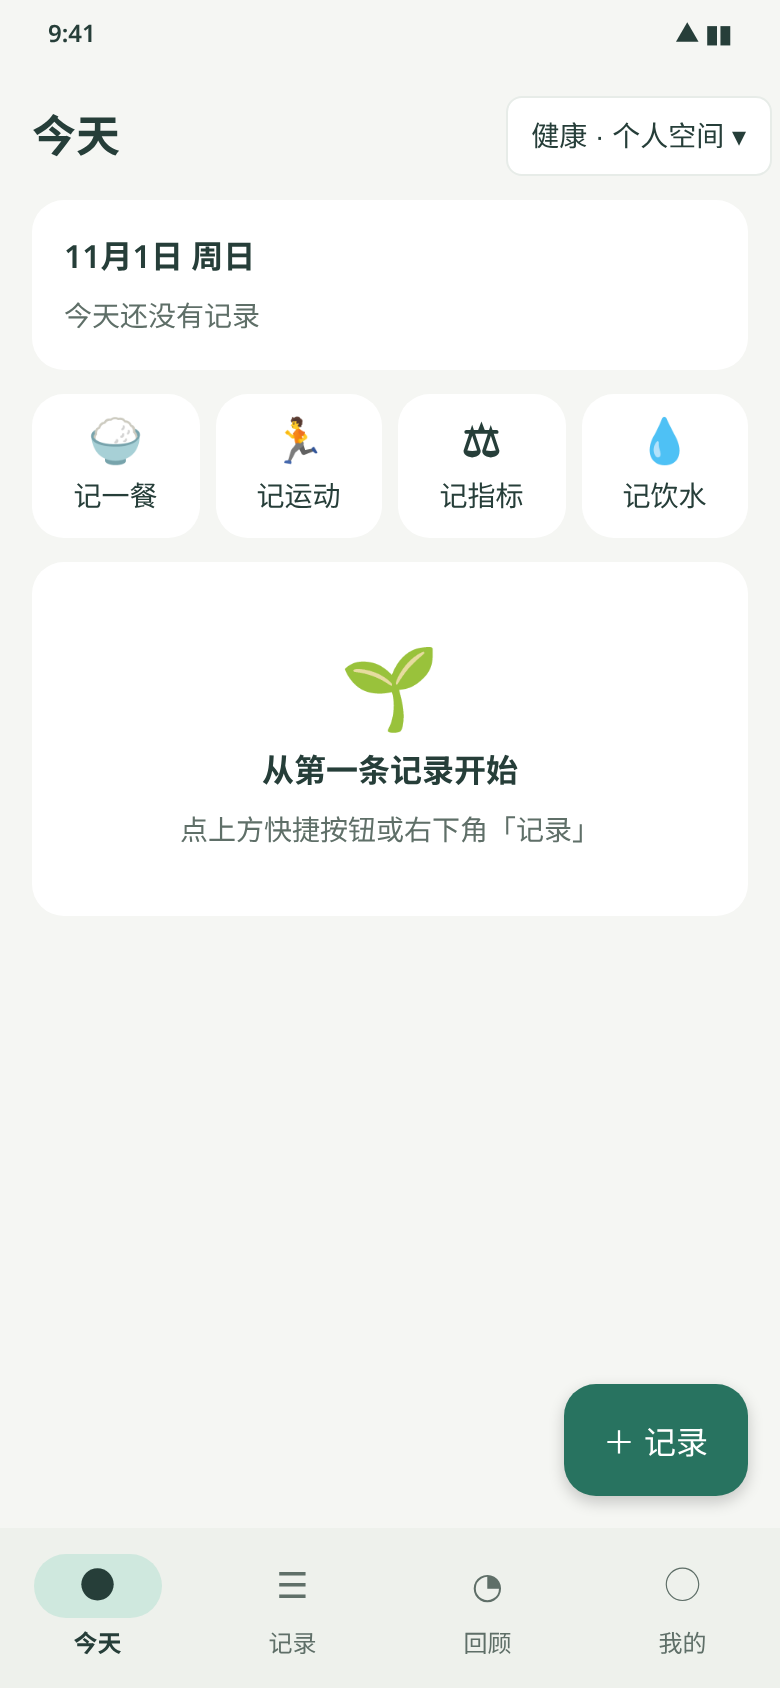
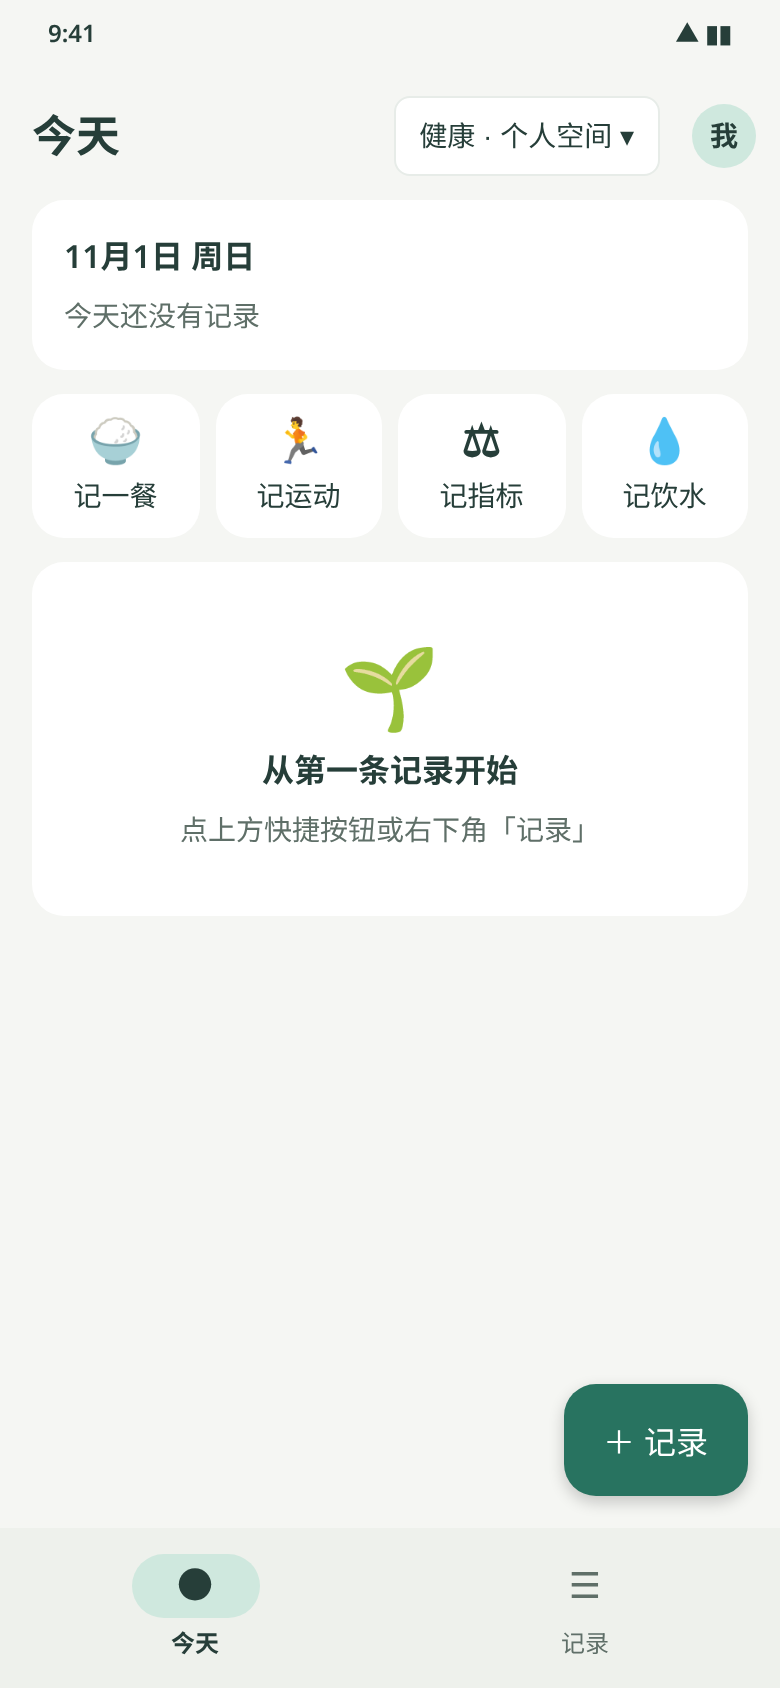
设计：按产品决定更新原生 v1 界面稿

diff --git a/docs/native-v1/prototype.html b/docs/native-v1/prototype.html
@@ -28,12 +28,12 @@ nav.idx{width:220px}nav.idx a{display:block;padding:8px;color:var(--green);text-
 .opt{display:flex;align-items:center;gap:12px;min-height:56px;padding:0 12px;border-radius:12px;cursor:pointer}.opt.on{background:var(--green-c);font-weight:700}.opt .ck{margin-left:auto}
 .seg{display:flex;border:1px solid #8a9a93;border-radius:20px;overflow:hidden;margin-bottom:16px}.seg span{flex:1;height:40px;display:grid;place-items:center;font-size:14px}.seg span.on{background:var(--green-c);font-weight:700}
 .dlg{position:absolute;left:40px;right:40px;top:300px;background:#f3f6f2;border-radius:28px;padding:24px}.dlg h2{font-size:22px;font-weight:500;margin-bottom:16px}.dlg .acts{display:flex;justify-content:flex-end;margin-top:24px}
-.scr{display:none}.scr.on{display:block}
+.snack{position:absolute;left:16px;right:16px;bottom:96px;background:#2f3a36;color:#fff;border-radius:8px;padding:14px 16px;font-size:14px;display:flex;align-items:center;gap:8px}.snack button{margin-left:auto;background:none;border:0;color:#a8dcc6;font-weight:700;min-height:48px;padding:0 8px}.ftabs{display:flex;gap:8px;overflow-x:auto;padding:4px 0 12px}.ftabs .chip.on{background:var(--green-c);border-color:var(--green-c);font-weight:700}.gh{font-size:14px;font-weight:700;color:var(--hint);margin:12px 0 4px}.danger{background:var(--error)!important}.scr{display:none}.scr.on{display:block}
 </style></head><body>
 <nav class="idx"><b>屏幕 / 状态</b></nav>
 <div class="phone" id="phone"></div>
 <script>
-const S={};const nb=(on)=>`<div class="nb">${[['今天','☀'],['记录','☰'],['回顾','◔'],['我的','◯']].map(([t,i],k)=>`<a href="#today" class="${k==on?'on':''}"><span class="pill">${k==on?'●':i}</span>${t}</a>`).join('')}</div>`;
+const S={};const nb=(on)=>`<div class="nb">${[['今天','☀','today'],['记录','☰','records']].map(([t,i,h],k)=>`<a href="#${h}" class="${k==on?'on':''}"><span class="pill">${k==on?'●':i}</span>${t}</a>`).join('')}</div>`;
 const sb=`<div class="sb"><span>9:41</span><span>▲ ▮▮</span></div>`;
 const ab=(extra='')=>`<div class="ab"><h1>今天${extra}</h1><button class="chip" onclick="go('switcher')">健康 · 个人空间 ▾</button><button class="ib" aria-label="同步状态">⟳</button></div>`;
 const quick=`<div class="quick"><button onclick="go('form-meal')"><b>🍚</b>记一餐</button><button onclick="go('form-exercise')"><b>🏃</b>记运动</button><button onclick="go('form-metric')"><b>⚖</b>记指标</button><button onclick="go('form-water')"><b>💧</b>记饮水</button></div>`;
@@ -41,9 +41,9 @@ const list=(pending)=>`<div class="card"><h3>今日记录</h3>
 <div class="row"><span class="ic">🍚</span><div class="t">午餐 · 番茄炒蛋、米饭<div class="small">12:20</div></div>${pending?'<span class="badge">⏱ 待同步</span>':''}</div>
 <div class="row"><span class="ic">🏃</span><div class="t">步行 30 分钟<div class="small">08:10</div></div></div>
 <div class="row"><span class="ic">⚖</span><div class="t">体重 62.4 kg<div class="small">07:30</div></div></div>
-<div class="row"><span class="ic">💧</span><div class="t">饮水 1,200 / 2,000 ml<div class="small">累计</div></div></div></div>`;
+<div class="row"><span class="ic">💧</span><div class="t">饮水 1,200 / 2,000 ml<div class="small">累计 · 目标取自设置，无则 2000</div></div></div></div>`;
 const summary=`<div class="card"><h3>11月1日 周日</h3><div class="hint">已记 3 餐中 1 餐 · 运动 30 分钟 · 饮水 60%</div></div>`;
-const today=(o={})=>sb+`<div class="ab"><h1>今天${o.sync?'<span class="spin" style="width:16px;height:16px;color:var(--hint)" aria-label="同步中"></span>':''}</h1><button class="chip" onclick="go('switcher')">健康 · 个人空间 ▾</button></div>`+(o.banner||'')+`<div class="content">${o.body||summary+quick+list(o.pending)}</div><button class="fab" onclick="go('add-sheet')">＋ 记录</button>`+nb(0);
+const today=(o={})=>sb+`<div class="ab"><h1>今天${o.sync?'<span class="spin" style="width:16px;height:16px;color:var(--hint)" aria-label="同步中"></span>':''}</h1><button class="chip" onclick="go('switcher')">${o.wb||'健康'} · 个人空间 ▾</button><button class="ib" aria-label="账号" onclick="go('account')"><span style="width:32px;height:32px;border-radius:16px;background:var(--green-c);display:inline-grid;place-items:center;font-size:14px;font-weight:700">我</span></button></div>`+(o.banner||'')+`<div class="content">${o.body||summary+quick+list(o.pending)}</div>${o.nofab?'':'<button class="fab" onclick="go(\'add-sheet\')">＋ 记录</button>'}${o.snack||''}`+nb(0);
 S['login']=['登录 · 空闲',()=>login('')];
 S['login-loading']=['登录 · 登录中',()=>login('load')];
 S['login-slow']=['登录 · 3s 网络较慢',()=>login('slow')];
@@ -59,6 +59,12 @@ S['today']=['今天 · 已加载',()=>today()];
 S['today-syncing']=['今天 · 同步中',()=>today({sync:1})];
 S['today-offline']=['今天 · 离线 + 待同步',()=>today({pending:1,banner:'<div class="banner off" role="status">☁ 离线中，记录会在联网后同步</div>'})];
 S['today-syncfail']=['今天 · 同步失败',()=>today({pending:1,banner:'<div class="banner fail" role="alert">⚠ 1 条记录同步失败<button class="btn t" onclick="go(\'today-syncing\')">重试</button></div>'})];
+S['today-finance']=['今天 · 金融（只读）',()=>today({wb:'金融',nofab:1,body:`<div class="card"><h3>11月1日 周日</h3><div class="hint">金融工作台 · 只读</div></div><div class="card"><h3>最近备忘</h3><div class="row"><span class="ic">✎</span><div class="t">季度定投计划复盘<div class="small">10月30日</div></div></div><div class="row"><span class="ic">✎</span><div class="t">信用卡账单日改到 5 号<div class="small">10月28日</div></div></div></div><div class="card"><h3>待办</h3><div class="row"><span class="ic">☐</span><div class="t">11月10日前缴房贷<div class="small">截止 11月10日</div></div></div><div class="row"><span class="ic">☐</span><div class="t">整理年度保险单<div class="small">无截止</div></div></div></div><p class="hint" style="text-align:center;padding:24px 0">金融记录暂时请在网页版添加</p>`})];
+S['sync-conflict']=['同步冲突 · Snackbar',()=>today({snack:'<div class="snack" role="status">『早餐』已在别处修改，已更新为最新内容<button>知道了</button></div>'})];
+const recs=(f)=>{const all=[['11月1日 周日',[['meal','🍚','午餐 · 番茄炒蛋、米饭','12:20'],['exercise','🏃','步行 30 分钟','08:10'],['metric','⚖','体重 62.4 kg','07:30'],['water','💧','饮水 300 ml','10:00']]],['10月31日 周六',[['meal','🍚','晚餐 · 清蒸鱼、青菜','18:40'],['metric','⚖','血压 118/76 mmHg','08:00'],['meal','🍚','早餐 · 燕麦牛奶','07:50'],['exercise','🏃','骑行 45 分钟','16:00']]]];
+return sb+`<div class="ab"><h1>记录</h1><button class="chip" onclick="go('switcher')">健康 · 个人空间 ▾</button></div><div class="content"><div class="ftabs" role="tablist">${[['','全部'],['meal','一餐'],['exercise','运动'],['metric','指标'],['water','饮水']].map(([k,t])=>`<button class="chip ${k==f?'on':''}" role="tab" aria-selected="${k==f}" onclick="go('${k?'records-filtered':'records'}')">${k==f?'✓ ':''}${t}</button>`).join('')}</div>${all.map(([d,rs])=>{rs=rs.filter(r=>!f||r[0]==f);return rs.length?`<div class="gh">${d}</div><div class="card">${rs.map(r=>`<div class="row" onclick="go('form-meal-edit')"><span class="ic">${r[1]}</span><div class="t">${r[2]}<div class="small">${r[3]}</div></div><span class="hint">›</span></div>`).join('')}</div>`:''}).join('')}</div><button class="fab" onclick="go('add-sheet')">＋ 记录</button>`+nb(1)};
+S['records']=['记录 · 全部',()=>recs('')];
+S['records-filtered']=['记录 · 筛选一餐',()=>recs('meal')];
 S['today-empty']=['今天 · 空状态',()=>today({body:summary.replace('已记 3 餐中 1 餐 · 运动 30 分钟 · 饮水 60%','今天还没有记录')+quick+`<div class="card" style="text-align:center;padding:32px 16px"><div style="font-size:40px">🌱</div><h3>从第一条记录开始</h3><p class="hint">点上方快捷按钮或右下角「记录」</p></div>`})];
 S['today-skeleton']=['今天 · 首次启动骨架屏',()=>today({body:`<div class="card"><div class="sk" style="height:20px;width:40%;margin-bottom:12px"></div><div class="sk" style="height:16px;width:80%"></div></div><div class="quick">${'<div class="sk" style="height:72px;border-radius:16px"></div>'.repeat(4)}</div><div class="card">${'<div style="display:flex;gap:12px;margin:12px 0"><div class="sk" style="width:40px;height:40px;border-radius:20px"></div><div style="flex:1"><div class="sk" style="height:16px;margin-bottom:8px"></div><div class="sk" style="height:12px;width:40%"></div></div></div>'.repeat(4)}</div>`})];
 const sheetOver=(base,inner)=>base+`<div class="scrim" onclick="go('today')"></div><div class="sheet"><div class="h"></div>${inner}</div>`;
@@ -72,8 +78,9 @@ S['form-exercise']=['记运动',()=>form('记运动',`<div class="field"><label>
 S['form-metric']=['记指标',()=>form('记指标',`<div class="seg"><span class="on">✓ 体重</span><span>血压</span><span>血糖</span><span>睡眠</span><span>心率</span></div>${dateF()}<div class="field"><label>体重（kg）</label><div class="in">62.4</div><div class="sup">上次 62.8 kg · 10月31日</div></div>`)];
 S['form-water']=['记饮水',()=>form('记饮水',`${dateF()}<div style="display:flex;gap:8px;margin-bottom:16px">${[200,300,500].map(v=>`<button class="chip" style="flex:1;justify-content:center;height:48px">+${v} ml</button>`).join('')}</div><div class="field"><label>饮水量（ml）</label><div class="in">300</div><div class="sup">今日已喝 1,200 ml</div></div>`)];
 S['discard']=['未保存 · 放弃确认',()=>S['form-meal'][1]()+`<div class="scrim"></div><div class="dlg" role="alertdialog"><h2>放弃未保存的内容？</h2><p class="hint">刚才填写的内容不会保留。</p><div class="acts"><button class="btn t" onclick="go('form-meal')">继续编辑</button><button class="btn t" style="color:var(--error)" onclick="go('today')">放弃</button></div></div>`];
-S['account']=['我的 · 账号与缓存',()=>sb+`<div class="ab"><h1>我的</h1></div><div class="content"><div class="card"><h3>me@example.com</h3><p class="hint">登录有效期自动续期 30 天</p></div><div class="card"><div class="row"><div class="t">本机缓存<div class="small">仅属于当前账号；切换或退出账号时清除</div></div></div><div class="row"><div class="t">待同步<div class="small">0 条</div></div></div></div><div class="card"><div class="row hint"><div class="t">备忘待办 · 用药 · 设置 · 邀请成员</div><span class="small">网页版 ↗</span></div></div><button class="btn t" style="color:var(--error)" onclick="go('logout')">退出登录</button></div>`+nb(3)];
-S['logout']=['退出登录确认',()=>S['account'][1]()+`<div class="scrim"></div><div class="dlg"><h2>退出登录？</h2><p class="hint">本机缓存将被清除。还有 1 条记录未同步，退出后会丢失。</p><div class="acts"><button class="btn t" onclick="go('account')">取消</button><button class="btn t" style="color:var(--error)" onclick="go('login')">退出</button></div></div>`];
+S['account']=['账号 · 缓存',()=>sb+`<div class="ab"><button class="ib" aria-label="返回" onclick="go('today')">←</button><h1>账号</h1></div><div class="content"><div class="card"><h3>me@example.com</h3><p class="hint">登录有效期自动续期 30 天</p></div><div class="card"><div class="row"><div class="t">本机缓存<div class="small">仅属于当前账号；切换或退出账号时清除</div></div></div><div class="row"><div class="t">待同步<div class="small">2 条</div></div></div></div><div class="card"><div class="row hint"><div class="t">备忘待办 · 用药 · 设置 · 邀请成员</div><span class="small">网页版 ↗</span></div></div><button class="btn t" style="color:var(--error)" onclick="go('logout')">退出登录</button></div>`];
+S['logout']=['退出登录 · 有未同步',()=>S['account'][1]()+`<div class="scrim"></div><div class="dlg" role="alertdialog"><h2>退出登录？</h2><p class="hint">有 2 条记录还没同步，退出后会从这台手机上删除</p><div style="display:flex;flex-direction:column;gap:8px;margin-top:24px"><button class="btn" onclick="go('today-syncing')">先同步</button><button class="btn t" style="color:var(--error);width:100%;height:48px" onclick="go('logout-confirm2')">仍然退出</button><button class="btn t" style="width:100%;height:48px" onclick="go('account')">取消</button></div></div>`];
+S['logout-confirm2']=['退出登录 · 二次确认',()=>S['account'][1]()+`<div class="scrim"></div><div class="dlg" role="alertdialog"><h2>确定删除未同步记录？</h2><p class="hint">2 条未同步记录将永久删除，无法恢复。</p><div class="acts" style="gap:8px"><button class="btn t" onclick="go('logout')">返回</button><button class="btn danger" style="width:auto;padding:0 20px" onclick="go('login')">删除并退出</button></div></div>`];
 function go(k){location.hash=k}
 function render(){const k=location.hash.slice(1)||'login';document.getElementById('phone').innerHTML=(S[k]||S.login)[1]()}
 document.querySelector('.idx').innerHTML+=Object.entries(S).map(([k,[t]])=>`<a href="#${k}">${t}</a>`).join('');
